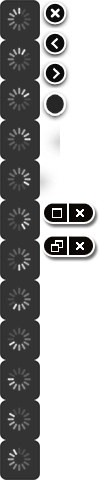
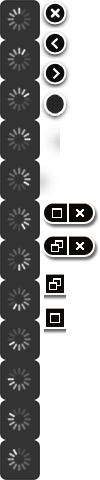
Add Update preview button to fancybox (issue #541)
git-svn-id: http://magento-w2p.googlecode.com/svn/trunk@1625 89e7eeb8-28a2-11de-b02e-9db90c89ab99

Changed region(s): [[0.45, 0.5625, 0.66, 0.7188]]

diff --git a/skin/frontend/base/default/js/zp-personalization-form.js b/skin/frontend/base/default/js/zp-personalization-form.js
@@ -501,6 +501,8 @@ function personalization_form ($) {
     return false;
   }
 
+  zp.update_preview = update_preview;
+
   $('button.update-preview').click({zp: this}, update_preview);
 
   var upload_controller_url = this.url.upload;
@@ -658,22 +660,32 @@ function personalization_form ($) {
       $selector = $content.data('in-preview-edit').parent;
     }
 
-    $selector.removeClass('no-value');
+    var zp = event.data.zp;
 
-    //If ZetaPrints advanced theme is enabled then...
-    if (window.mark_shape_as_edited && window.unmark_shape_as_edited
-        && window.mark_fieldbox_as_edited && window.unmark_fieldbox_as_edited) {
-      var zp = event.data.zp;
+    if ($(event.target).val().length) {
+      $selector.removeClass('no-value');
 
-      if ($(event.target).val().length)
+      $('#fancybox-outer').addClass('modified');
+
+      //If ZetaPrints advanced theme is enabled then...
+      if (window.mark_shape_as_edited)
         //... mark shape as edited then image is seleсted
         mark_shape_as_edited(zp.template_details.pages[zp.current_page]
                            .shapes[$(event.target).attr('name').substring(12)]);
-      else
+    } else {
+      $selector.addClass('no-value');
+
+      $('#fancybox-outer').removeClass('modified');
+
+      //If ZetaPrints advanced theme is enabled then...
+      if (window.unmark_shape_as_edited)
         //or unmark shape then Leave blank is selected
         unmark_shape_as_edited(zp.template_details.pages[zp.current_page]
                            .shapes[$(event.target).attr('name').substring(12)]);
+    }
 
+    //If ZetaPrints advanced theme is enabled then...
+    if (window.mark_fieldbox_as_edited && window.unmark_fieldbox_as_edited) {
       //Check that the value of a field was changed...
       if ($(event.target).val() != $content.data('original-value'))
         //... then mark a field box as edited
@@ -693,6 +705,26 @@ function personalization_form ($) {
     if ($panel.hasClass('color-picker')
         && !$panel.find('input').attr('checked'))
       $panel.find('.color-sample').click();
+  }
+
+  function has_changed_fields_on_page (page_number) {
+    var fields = $('#input-fields-page-' + page_number + ', ' +
+                   '#stock-images-page-' + page_number);
+
+    if (!fields.length)
+      return true;
+
+    var fields = $('input[name^="zetaprints-_"]:text, ' +
+                   'textarea[name^="zetaprints-_"], ' +
+                   'select[name^="zetaprints-_"], ' +
+                   'input[name^="zetaprints-_"]:checked, ' +
+                   'input[name^="zetaprints-#"]:checked', fields);
+
+    for (field in fields)
+      if (fields[field].value)
+        return true;
+
+    return false;
   }
 
   $(window).load({ zp: this }, function (event) {
@@ -826,8 +858,20 @@ function personalization_form ($) {
     'onComplete': function () {
       $('img#fancybox-img').attr('title', click_to_close_text);
 
+      //!!! Needs to be implemented via zp object.
+      //!!! Page state should be saved in page object.
+      if (has_changed_fields_on_page(zp.current_page))
+        $('#fancybox-outer').addClass('modified');
+      else
+        $('#fancybox-outer').removeClass('modified');
+
       if (window.fancybox_resizing_add)
         fancybox_resizing_add(this);
+
+      if (window.fancybox_add_update_preview_button
+          && !zp.template_details.pages[zp.current_page].static) {
+        fancybox_add_update_preview_button($, zp);
+      }
 
       if (!(zp.has_shapes && window.place_all_shapes_for_page
         && window.highlight_shape_by_name && window.popup_field_by_name
@@ -856,7 +900,12 @@ function personalization_form ($) {
         $('div.zetaprints-field-shape', $('div#fancybox-content')).removeClass('highlighted');
         popdown_field_by_name(undefined, true);
       }
-    } });
+    },
+    'onClosed': function () {
+      if (window.fancybox_remove_update_preview_button)
+        fancybox_remove_update_preview_button($);
+    }
+    });
 
   $('a.in-dialog').fancybox({
     'opacity': true,
@@ -917,22 +966,30 @@ function personalization_form ($) {
       return false;
   });
 
-  //If ZetaPrints advanced theme is enabled then...
-  if (this.has_shapes && window.mark_shape_as_edited
-      && window.unmark_shape_as_edited && window.mark_fieldbox_as_edited
-      && window.unmark_fieldbox_as_edited) {
-    $('div.zetaprints-page-input-fields :input').keyup({ zp: this }, function (event) {
-      var zp = event.data.zp;
+  $('div.zetaprints-page-input-fields :input').keyup({ zp: this }, function (event) {
+    var zp = event.data.zp;
 
-      if ($(this).val().length)
-        // ... then mark shape as edited if input field was modified and is not empty
+    if ($(this).val().length) {
+      $('#fancybox-outer').addClass('modified');
+
+      if (zp.has_shapes && window.mark_shape_as_edited)
+        // ... then mark shape as edited if input field was modified
+        // and is not empty
         mark_shape_as_edited(zp.template_details.pages[zp.current_page]
                                    .shapes[$(this).attr('name').substring(12)]);
-      else
+    } else {
+      $('#fancybox-outer').removeClass('modified');
+
+      if (zp.has_shapes && window.unmark_shape_as_edited)
         // or unmark it if input field is empty
         unmark_shape_as_edited(zp.template_details.pages[zp.current_page]
                                    .shapes[$(this).attr('name').substring(12)]);
+    }
 
+    if (zp.has_shapes
+        && window.mark_shape_as_edited
+        && window.mark_fieldbox_as_edited
+        && window.unmark_fieldbox_as_edited) {
       //Check that the value of a field was changed...
       if ($(this).val() != $(this).data('original-value'))
         //... then mark a field box as edited
@@ -940,8 +997,8 @@ function personalization_form ($) {
       else
          //... else unmark the field box as edited
         unmark_fieldbox_as_edited($(this).attr('name').substring(12));
-    });
-  }
+    }
+  });
 
   $('.button.delete').click({ zp: this }, function(event) {
     if (confirm(delete_this_image_text)) {

diff --git a/js/fancybox/fancybox-update-preview.css b/js/fancybox/fancybox-update-preview.css
@@ -1,0 +1,50 @@
+#zp-update-preview-button {
+  display: block;
+  position: absolute;
+  right: 36px;
+  top: -15px;
+  color: white;
+  text-decoration: none;
+  cursor: default;
+  z-index: 1103;
+  font: bold 8pt arial;
+}
+
+#zp-update-preview-button.no-middle {
+  right: 15px;
+}
+
+.modified #zp-update-preview-button {
+  cursor: pointer;
+}
+
+#zp-update-preview-button .icon {
+  display: block;
+  float: left;
+  background: url("images/zp-update-preview-button-sprite.png") no-repeat -27px 0px;
+  width: 21px;
+  height: 30px;
+}
+
+.modified #zp-update-preview-button .icon {
+  background-position: 0px 0px;
+}
+
+#zp-update-preview-button .text {
+  display: block;
+  float: right;
+  background: url("images/zp-update-preview-button-x.png") repeat-x 0px -31px;
+  height: 30px;
+  *float: none;
+}
+
+.modified #zp-update-preview-button .text {
+  background-position: 0px 0px;
+}
+
+#zp-update-preview-button .text span {
+  display: block;
+  margin: 4px 4px 0px 5px;
+  height: 18px;
+  line-height: 18px;
+}

diff --git a/js/fancybox/fancybox-update-preview.js b/js/fancybox/fancybox-update-preview.js
@@ -1,0 +1,30 @@
+function fancybox_add_update_preview_button ($, zp) {
+  var $outer = $('#fancybox-outer');
+
+  var $update_preview = $('<a id="zp-update-preview-button">' +
+                            '<span class="icon"/>' +
+                            '<span class="text">' +
+                              '<span>' + update_preview_button_text + '</span>' +
+                            '</span>' +
+                          '</a>').appendTo($outer);
+
+  var $fancybox_resize = $('#fancybox-resize')
+
+  if ($fancybox_resize.length)
+    $fancybox_resize.addClass('middle-position');
+  else {
+    $('#fancybox-close').addClass('resizer-tweaks');
+    $update_preview.addClass('no-middle');
+  }
+
+  $update_preview.click(function () {
+    if ($outer.hasClass('modified'))
+      zp.update_preview({ data: { zp: zp } });
+  })
+}
+
+function fancybox_remove_update_preview_button ($) {
+  $('#zp-update-preview-button').remove();
+  $('#fancybox-resize').removeClass('middle-position');
+}
+

diff --git a/js/fancybox/fancybox-resizing.css b/js/fancybox/fancybox-resizing.css
@@ -31,3 +31,15 @@
 #fancybox-close.resizer-tweaks {
   background: url("images/fancybox.png") no-repeat transparent -68px -200px;
 }
+
+#fancybox-resize.middle-position a {
+  width: 22px;
+}
+
+#fancybox-resize.middle-position .maximize {
+  background-position: -44px -305px;
+}
+
+#fancybox-resize.middle-position .restore {
+  background-position: -44px -271px;
+}

diff --git a/app/code/community/ZetaPrints/WebToPrint/Helper/PersonalizationForm.php b/app/code/community/ZetaPrints/WebToPrint/Helper/PersonalizationForm.php
@@ -888,6 +888,7 @@ jQuery(document).ready(function($) {
 
   edit_button_text = "<?php echo $this->__('Edit');?>";
   delete_button_text = "<?php echo $this->__('Delete'); ?>";
+  update_preview_button_text = "<?php echo $this->__('Update preview'); ?>";
 
   preview_generation_response_error_text = "<?php echo $this->__('Can\'t get preview image:'); ?>";
   preview_generation_error_text = "<?php echo $this->__('There was an error in generating or receiving preview image.\nPlease try again.'); ?>";
